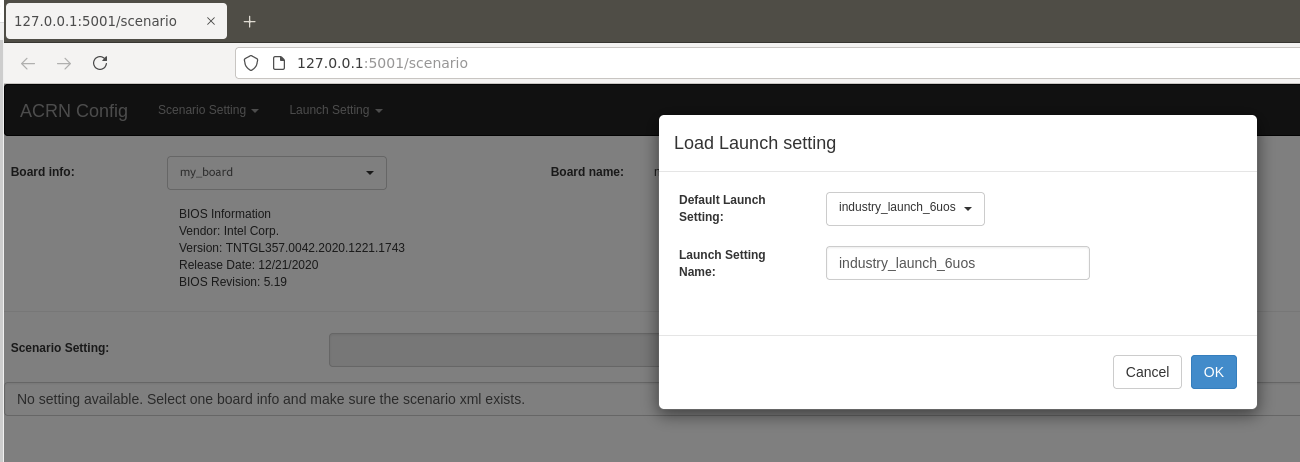
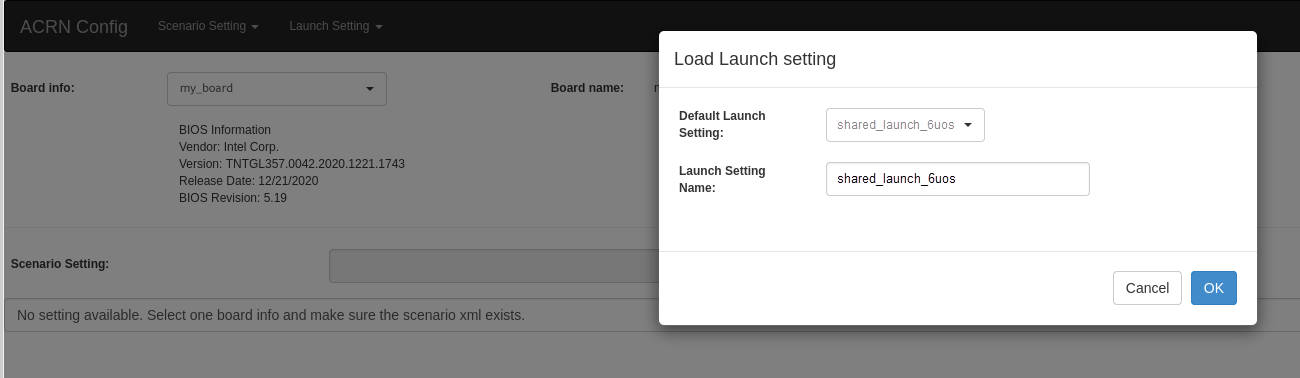
doc: update docs and images to match scenario names
Update the docs and images referencing ``industry`` and ``logical_partition`` scenarios to
``shared`` and ``partioned``.

diff --git a/doc/getting-started/getting-started.rst b/doc/getting-started/getting-started.rst
@@ -8,7 +8,7 @@ Getting Started Guide
 This guide will help you get started with ACRN. We'll show how to prepare a
 build environment on your development computer. Then we'll walk through the
 steps to set up a simple ACRN configuration on a target system. The
-configuration is based on the ACRN predefined **industry** scenario and consists
+configuration is based on the ACRN predefined **shared** scenario and consists
 of an ACRN hypervisor, Service VM, and one User VM, as illustrated in this
 figure:
 
@@ -437,7 +437,7 @@ To generate a scenario configuration file and launch script:
       .. image:: ./images/gsg_config_scenario_default.png
          :class: drop-shadow
 
-   #. In the dialog box, select **industry** as the default scenario setting and
+   #. In the dialog box, select **shared** as the default scenario setting and
       then click **OK**.
 
       .. image:: ./images/gsg_config_scenario_load.png
@@ -461,7 +461,7 @@ To generate a scenario configuration file and launch script:
       .. image:: ./images/gsg_config_scenario_save.png
          :class: drop-shadow
 
-   #. Confirm that ``industry.xml`` appears in the directory
+   #. Confirm that ``shared.xml`` appears in the directory
       ``/home/<username>/acrn-work``.
 
 #. Generate the launch script:
@@ -472,7 +472,7 @@ To generate a scenario configuration file and launch script:
       .. image:: ./images/gsg_config_launch_default.png
          :class: drop-shadow
 
-   #. In the dialog box, select **industry_launch_6uos** as the default launch
+   #. In the dialog box, select **shared_launch_6uos** as the default launch
       setting and click **OK**.
 
       .. image:: ./images/gsg_config_launch_load.png
@@ -506,7 +506,7 @@ Build ACRN
    .. code-block:: bash
 
       cd ~/acrn-work/acrn-hypervisor
-      make -j $(nproc) BOARD=~/acrn-work/my_board.xml SCENARIO=~/acrn-work/industry.xml
+      make -j $(nproc) BOARD=~/acrn-work/my_board.xml SCENARIO=~/acrn-work/shared.xml
       make targz-pkg
 
    The build typically takes a few minutes. By default, the build results are

diff --git a/doc/reference/hv-make-options.rst b/doc/reference/hv-make-options.rst
@@ -76,19 +76,19 @@ Example of a command to build the debug version:
 
 .. code-block:: none
 
-   make BOARD=~/acrn-work/my_board.xml SCENARIO=~/acrn-work/industry.xml
+   make BOARD=~/acrn-work/my_board.xml SCENARIO=~/acrn-work/shared.xml
 
 Example of a command to build the release version:
 
 .. code-block:: none
 
-   make BOARD=~/acrn-work/my_board.xml SCENARIO=~/acrn-work/industry.xml RELEASE=y
+   make BOARD=~/acrn-work/my_board.xml SCENARIO=~/acrn-work/shared.xml RELEASE=y
 
 Example of a command to build the release version (hypervisor only):
 
 .. code-block:: none
 
-   make BOARD=~/acrn-work/my_board.xml SCENARIO=~/acrn-work/industry.xml RELEASE=y hypervisor
+   make BOARD=~/acrn-work/my_board.xml SCENARIO=~/acrn-work/shared.xml RELEASE=y hypervisor
 
 Example of a command to build the release version of the Device Model and tools:
 
@@ -101,13 +101,13 @@ Example of a command to put the built files in the specified directory
 
 .. code-block:: none
 
-   make O=build-nuc BOARD=~/acrn-work/my_board.xml SCENARIO=~/acrn-work/industry.xml
+   make O=build-nuc BOARD=~/acrn-work/my_board.xml SCENARIO=~/acrn-work/shared.xml
 
 Example of a command that specifies ``iasl`` compiler:
 
 .. code-block:: none
 
-   make BOARD=~/acrn-work/my_board.xml SCENARIO=~/acrn-work/industry.xml ASL_COMPILER=/usr/local/bin/iasl
+   make BOARD=~/acrn-work/my_board.xml SCENARIO=~/acrn-work/shared.xml ASL_COMPILER=/usr/local/bin/iasl
 
 ACRN uses XML files to summarize board characteristics and scenario settings.
 The ``BOARD`` and ``SCENARIO`` variables accept board/scenario names as well
@@ -171,7 +171,7 @@ files manually (``scenario.xml``) and then building the hypervisor:
 
 .. code-block:: none
 
-   make BOARD=nuc7i7dnb SCENARIO=industry hvdefconfig
+   make BOARD=nuc7i7dnb SCENARIO=shared hvdefconfig
    vim build/hypervisor/.scenario.xml
    #(Modify the XML file per your needs)
    make

diff --git a/doc/tutorials/using_partition_mode_on_nuc.rst b/doc/tutorials/using_partition_mode_on_nuc.rst
@@ -1,13 +1,13 @@
 .. _using_partition_mode_on_nuc:
 
-Getting Started Guide for ACRN Logical Partition Mode
-#####################################################
+Getting Started Guide for ACRN Partitioned Mode
+###############################################
 
-The ACRN hypervisor supports a logical partition scenario in which the User
+The ACRN hypervisor supports a partitioned scenario in which the User
 OS, running in a pre-launched VM, can bypass the ACRN
 hypervisor and directly access isolated PCI devices. The following
 guidelines provide step-by-step instructions on how to set up the ACRN
-hypervisor logical partition scenario on Intel NUC while running two
+hypervisor partitioned scenario on Intel NUC while running two
 pre-launched VMs.
 
 .. contents::
@@ -19,6 +19,10 @@ Validated Versions
 
 - Ubuntu version: **18.04**
 - ACRN hypervisor tag: **v2.6**
+
+.. note:: After the v2.6 release, the ``logical_partition`` scenario
+   was renamed to ``partitioned``, affecting the file names used in this
+   guide (validated with v2.6).
 
 Prerequisites
 *************

diff --git a/doc/introduction/index.rst b/doc/introduction/index.rst
@@ -319,7 +319,8 @@ Project ACRN provides some predefined sample scenarios to illustrate how you
 can define your own configuration scenarios.
 
 
-* **Industry** is a traditional computing, memory, and device resource sharing
+* **Shared** (called **Industry** in previous releases) is a traditional
+  computing, memory, and device resource sharing
   model among VMs. The ACRN hypervisor launches the Service VM. The Service VM
   then launches any post-launched User VMs and provides device and resource
   sharing mediation through the Device Model.  The Service VM runs the native
@@ -331,7 +332,7 @@ can define your own configuration scenarios.
      :align: center
      :name: arch-shared-example
 
-     ACRN High-Level Architecture Industry (Shared) Example
+     ACRN High-Level Architecture Shared Example
 
   Virtualization is especially important in industrial environments because of
   device and application longevity. Virtualization enables factories to

diff --git a/doc/tutorials/enable_s5.rst b/doc/tutorials/enable_s5.rst
@@ -205,7 +205,7 @@ How to Test
 #. Refer to the :ref:`enable_s5` section to set up the S5 environment for the User VMs.
 
    .. note:: RT-Linux's UUID must use ``495ae2e5-2603-4d64-af76-d4bc5a8ec0e5``. Also, the
-      industry EFI image is required for launching the RT-Linux VM.
+      shared EFI image is required for launching the RT-Linux VM.
 
    .. note:: Use the ``systemctl status life_mngr.service`` command to ensure the service is working on the LaaG or RT-Linux:
 

diff --git a/doc/tutorials/using_serial_port.rst b/doc/tutorials/using_serial_port.rst
@@ -104,6 +104,6 @@ then add it to the grub menu:
 
    ``uart=bdf@0x101`` for port 2
 
-   ``uart=bdf@0x101`` is preferred for the industry scenario; otherwise, it can't
+   ``uart=bdf@0x101`` is preferred for the shared scenario; otherwise, it can't
    input in the Hypervisor console after the Service VM boots up.
    There is no such limitation for the hybrid or hybrid_rt scenarios.

diff --git a/doc/tutorials/cpu_sharing.rst b/doc/tutorials/cpu_sharing.rst
@@ -152,7 +152,7 @@ The default scheduler is **SCHED_BVT**.
 Example
 *******
 
-Use the following settings to support this configuration in the industry scenario:
+Use the following settings to support this configuration in the shared scenario:
 
 +---------+--------+-------+-------+
 |pCPU0    |pCPU1   |pCPU2  |pCPU3  |
